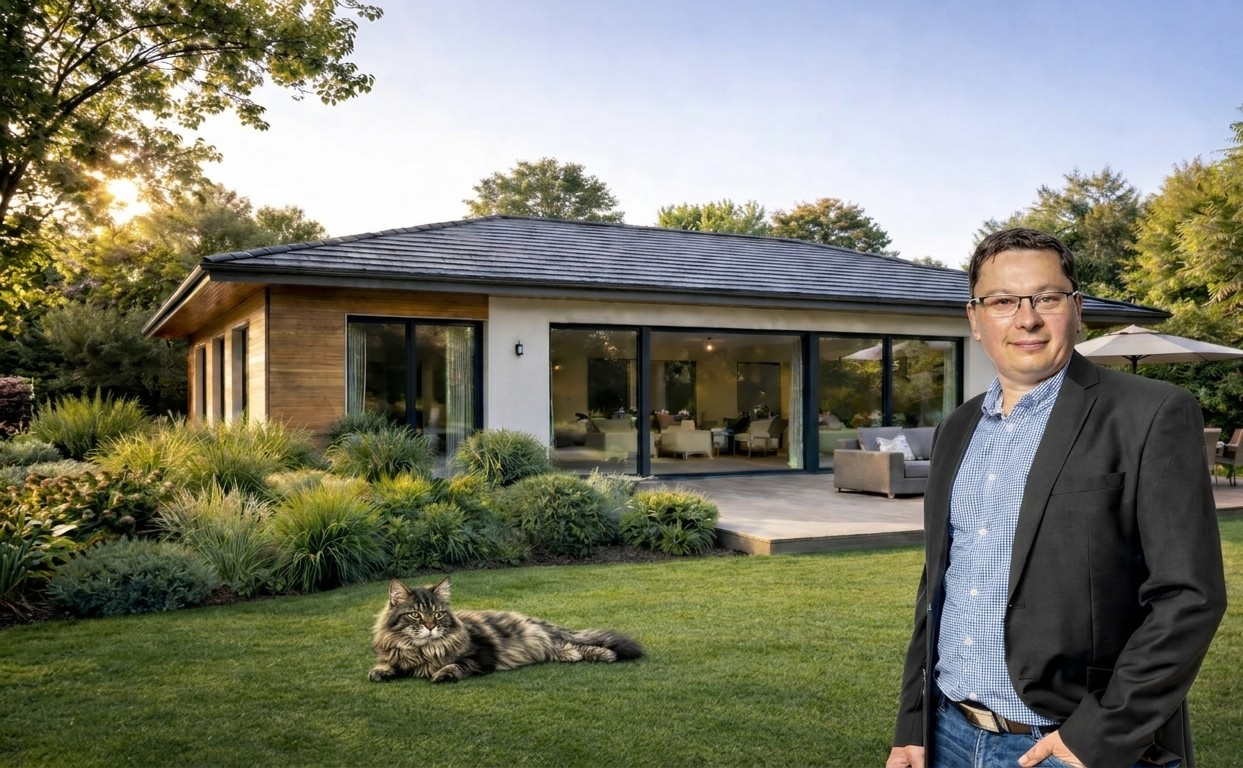
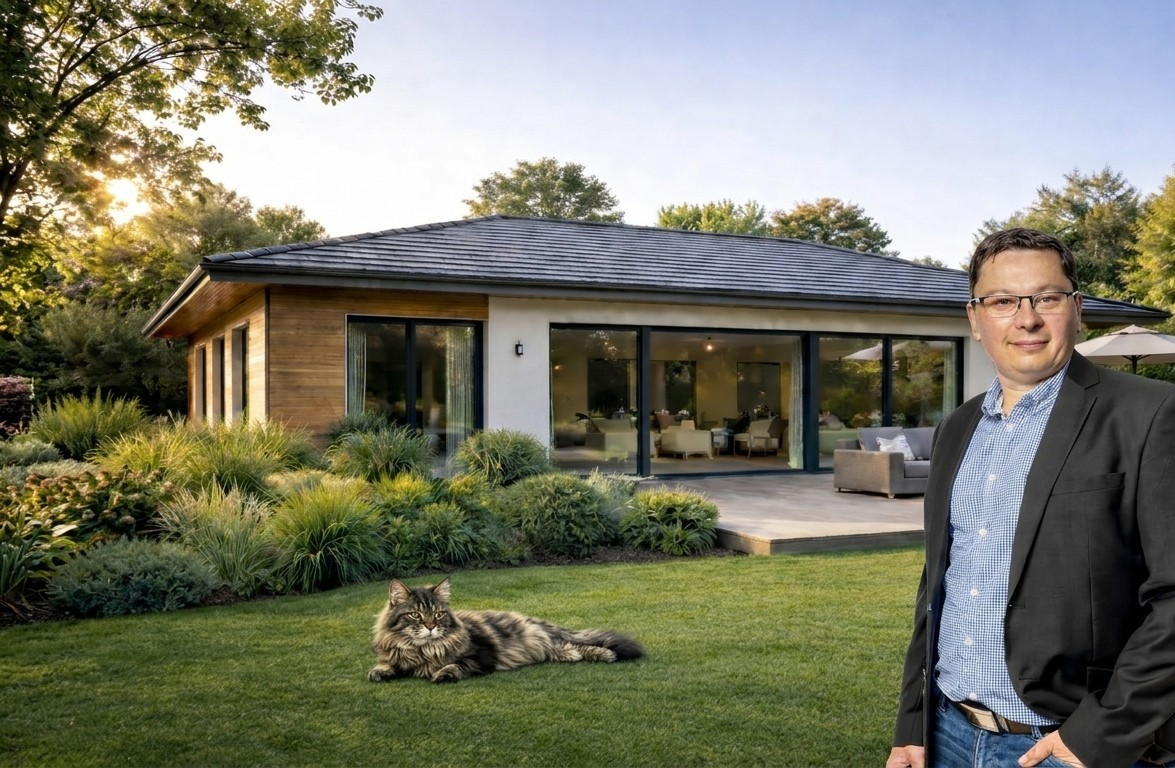
aby nebyl text nad kočkou a zároveň úprava zobrazení hero pro mobil

diff --git a/css/layout.css b/css/layout.css
@@ -519,7 +519,9 @@ body.menu-open .floating-cta {
     flex: 1;
     min-height: calc(100vh - var(--header-height));
     min-height: calc(100dvh - var(--header-height));
-    align-items: end;
+    align-items: start;
+    align-content: start;
+    padding-block-start: clamp(2.5rem, 8vh, 5.5rem);
   }
 }
 
@@ -537,7 +539,8 @@ body.menu-open .floating-cta {
 
 @media (min-width: 1024px) and (min-height: 720px) {
   .hero__grid {
-    align-items: end;
+    align-items: start;
+    align-content: start;
   }
 }
 
@@ -650,6 +653,10 @@ body.menu-open .floating-cta {
 }
 
 @media (max-width: 1023px) {
+  .hero {
+    min-height: clamp(26rem, 72vh, 34rem);
+  }
+
   .hero__bg {
     background-image: url("../images/hero_sekce_bg_mobil.jpeg");
     background-position: right center;
@@ -657,37 +664,89 @@ body.menu-open .floating-cta {
 
   .hero__overlay {
     background: linear-gradient(
-      180deg,
-      rgba(6, 24, 41, 0.85) 0%,
-      rgba(6, 24, 41, 0.55) 45%,
-      rgba(6, 24, 41, 0.15) 70%,
+      100deg,
+      rgba(6, 24, 41, 0.88) 0%,
+      rgba(6, 24, 41, 0.62) 42%,
+      rgba(6, 24, 41, 0.28) 68%,
+      rgba(6, 24, 41, 0.12) 85%,
       transparent 100%
     );
   }
 
   .hero__grid {
     gap: 1rem;
-    align-content: start;
+    align-content: center;
     align-items: start;
-    min-height: 0;
-    flex: none;
-    padding-block-start: 0.75rem;
-    padding-block-end: clamp(1.5rem, 4vw, 2rem);
-    padding-inline: clamp(1rem, 4vw, 2rem);
+    min-height: inherit;
+    flex: 1;
+    padding-block: clamp(0.5rem, 2.5vw, 1rem) clamp(1.25rem, 4vw, 1.75rem);
+    padding-inline: clamp(0.75rem, 3vw, 1.25rem) 0;
   }
 
   .hero__content {
+    width: 50%;
+    max-width: 50%;
+    padding-right: 0.35rem;
     padding-bottom: 0;
+    box-sizing: border-box;
+  }
+
+  .page-home .hero__content .label {
+    font-size: 0.625rem;
+    letter-spacing: 0.07em;
+    line-height: 1.3;
+    margin-top: -0.85rem;
   }
 
   .hero__title {
-    margin-top: 0.5rem;
+    font-size: clamp(1.05rem, 3.8vw, 1.35rem);
+    line-height: 1.22;
+    margin-top: 0.55rem;
+    hyphens: auto;
+  }
+
+  .hero__lead {
+    font-size: 0.6875rem;
+    line-height: 1.45;
+    margin-top: 0.85rem;
+    max-width: none;
+  }
+
+  .hero__actions {
+    margin-top: 1.35rem;
+    width: 100%;
+  }
+
+  .hero__actions .btn {
+    width: 100%;
+    max-width: 100%;
+    padding: 0.5rem 0.65rem;
+    font-size: 0.6875rem;
+    line-height: 1.25;
+    justify-content: center;
+    gap: 0.25rem;
+  }
+
+  .hero__actions .btn .btn__icon {
+    font-size: 0.95rem;
+  }
+
+  .hero__logo {
+    margin-top: 3.95rem;
+  }
+
+  .hero__logo img {
+    max-width: min(112px, 32vw);
   }
 
   .hero__image-wrap {
     order: 2;
     max-width: min(22rem, 88%);
     margin-top: 0;
+  }
+
+  .hero__image img {
+    object-position: 65% bottom;
   }
 }
 
